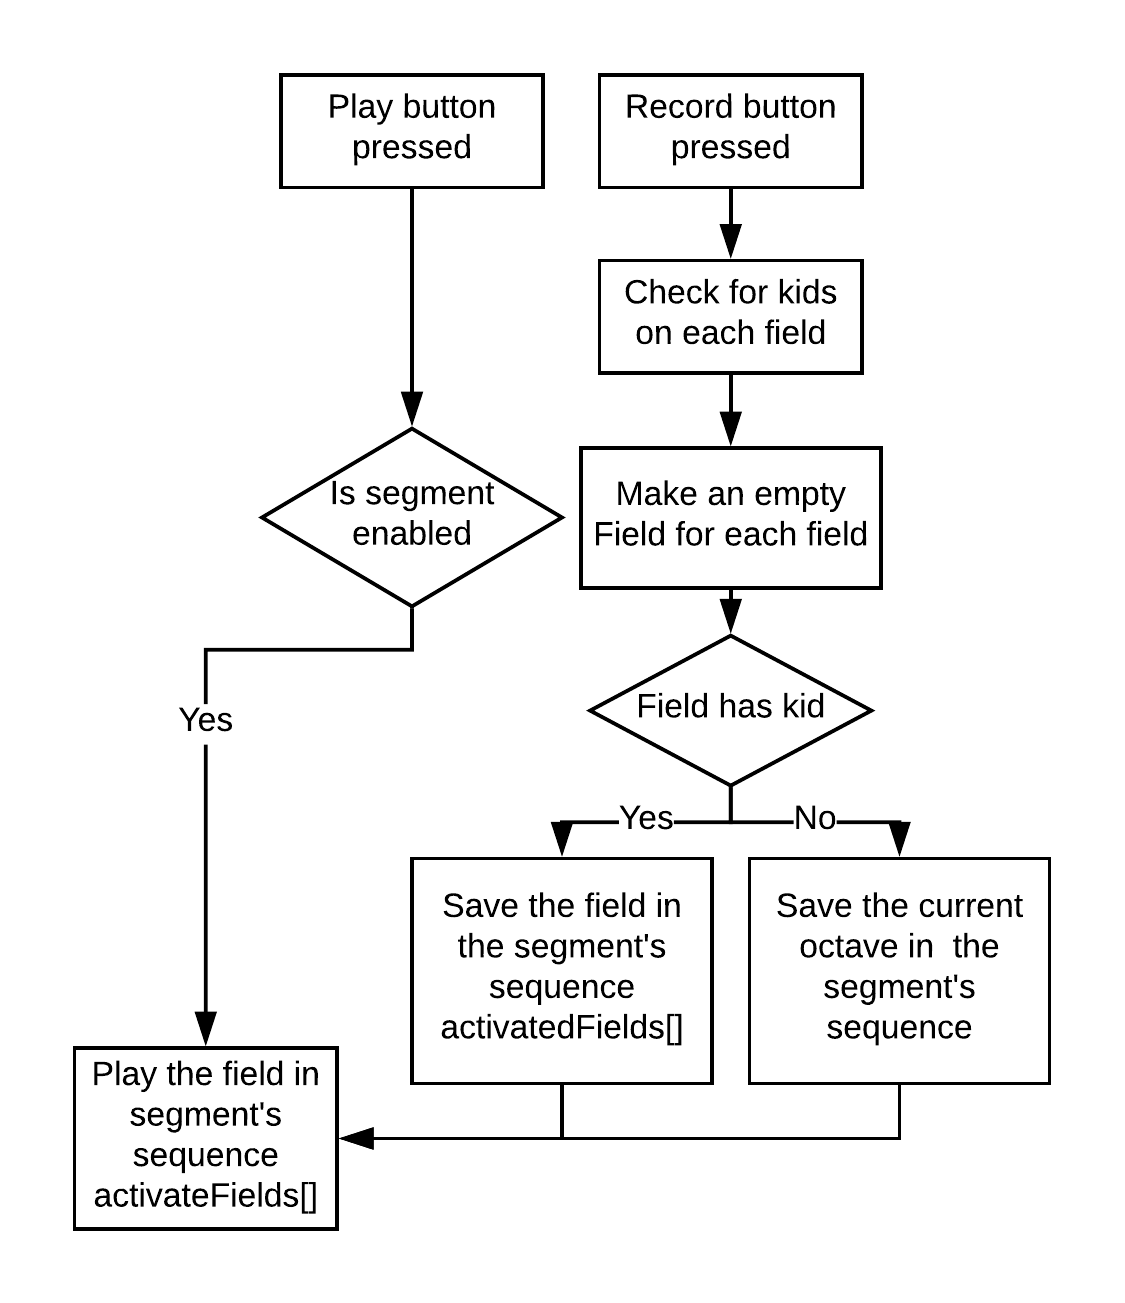
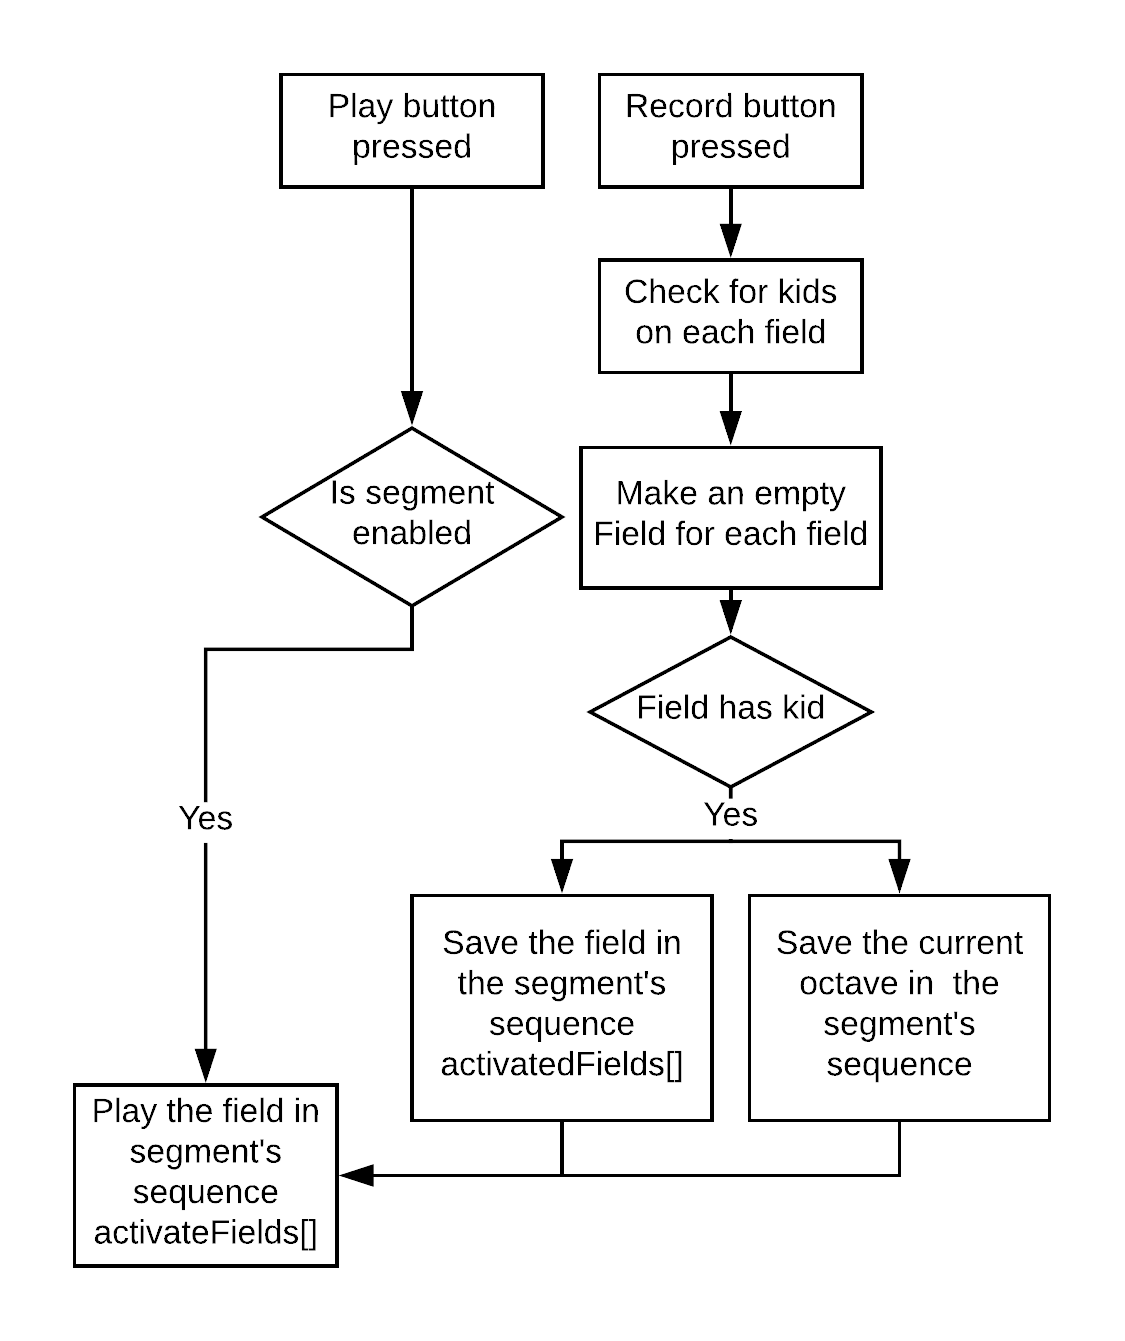
More Arduino code stuff

diff --git a/include/Implemention.tex b/include/Implemention.tex
@@ -17,7 +17,10 @@ Due to the agile nature of the prototype development the implementation stage be
 		\item[-] It should be able to save the sequences of fields in four separate segments.
 		\item[-] It should be able to start playback of the previously saved segments.
 	\end{itemize}
-		To categorize the data and prepare it for saving on the Mega, two separate structures where made. These structures as seen in \autoref{listing:structs} are called \mintinline{cpp}{SequenceField} and \mintinline{cpp}{Segment}. SequenceField contains an \mintinline{cpp}{int} that holds the octave of the sequence, and a \mintinline{cpp}{Field} array to hold the activated fields.\\\\ The \mintinline{cpp}{Segment} structure holds a \mintinline{cpp}{SequenceField} array to contain the 4 sequences (beats), a \mintinline{cpp}{bool} to keep track of what segment is enabled, and the corresponding LED pin.
+		To categorize the data and prepare it for saving on the Mega, two separate structures where made. These structures as seen in \autoref{listing:structs} are called \mintinline{cpp}{SequenceField} and \mintinline{cpp}{Segment}. SequenceField contains an \mintinline{cpp}{int} that holds the octave of the sequence, and a \mintinline{cpp}{Field} array to hold the activated fields.
+		
+		\noindent
+		The \mintinline{cpp}{Segment} structure holds a \mintinline{cpp}{SequenceField} array to contain the 4 sequences (beats), a \mintinline{cpp}{bool} to keep track of what segment is enabled, and the corresponding LED pin.
 		
 		\begin{listing}[H]
 			\caption{The structs used to contain our data for the segments and their fields.}
@@ -35,7 +38,8 @@ struct Segment {
 };
 			\end{minted}
 		\end{listing}
-To save the segments and their data to persist through restarts, we make use of the onboard EEPROM. The EEPROM on the Arduino Mega can hold 4k bytes of data while our segments only take up 611 bytes of that space. Writing to the EEPROM on an Arduino is quite straightforward, we simply iterate over our \mintinline{cpp}{Segment} array, and put in into the EEPROM according to the size of our structure.
+		\noindent
+		To save the segments and their data to persist through restarts, we make use of the onboard EEPROM. The EEPROM on the Arduino Mega can hold 4k bytes of data and our segments only take up 611 bytes of that space. Writing to the EEPROM on an Arduino is quite straightforward, we simply iterate over our \mintinline{cpp}{Segment} array, and put in into the EEPROM according to the size of our structure.
 		\begin{listing}[H]
 			\caption{Writing our segment data to the EEPROM}
 			\label{listing:writeSegment}
@@ -47,7 +51,8 @@ void writeSegments() {
 }
 			\end{minted}
 		\end{listing}
-		\autoref{fig:flowchartPlayRecord} explains what happens when either the record or play buttons is pressed.
+		\noindent
+		\autoref{fig:flowchartPlayRecord} explains what happens when either the record or play buttons is pressed. Pressing the play button, goes through the enabled segments, and plays the sequences in each. Pressing the record button however starts a more complex routine, starting with going over each field in the current beat and checking if it's activated. Then an empty Field object is made for each field, to record silence in the fields where no kid were standing. If a field was activated, then it saves the octave in the sequence and the field in \mintinline{cpp}{activatedFields[]}. In the end it plays the activated fields' sounds.
 		\begin{figure}[H]
 			\centering
 			\includegraphics[width=.5\linewidth]{figure/Implementation/flowchartPlayRecord}
@@ -56,7 +61,8 @@ void writeSegments() {
 			\end{figure}
 	
 		\subsubsection{Libraries}%Daniel
-			FastLed, button.
+			To achieve some of the functionality in a short amount of time, two libraries were used in addition to our own system,
+			the FastLed and button library.
 	\subsection{PureData}%Jens
 	\autoref{fig:pdPatch} shows the main patch of the PD code that was uploaded to the Bela. It takes inputs through the Belas' pins from the Arduino Mega. The PD patch is responsible for playing the sounds when the pads are pressed, changing the octave by multiplying/dividing the oscillators' frequencies by 2, playing the count in sound before recording or playing.
 	
